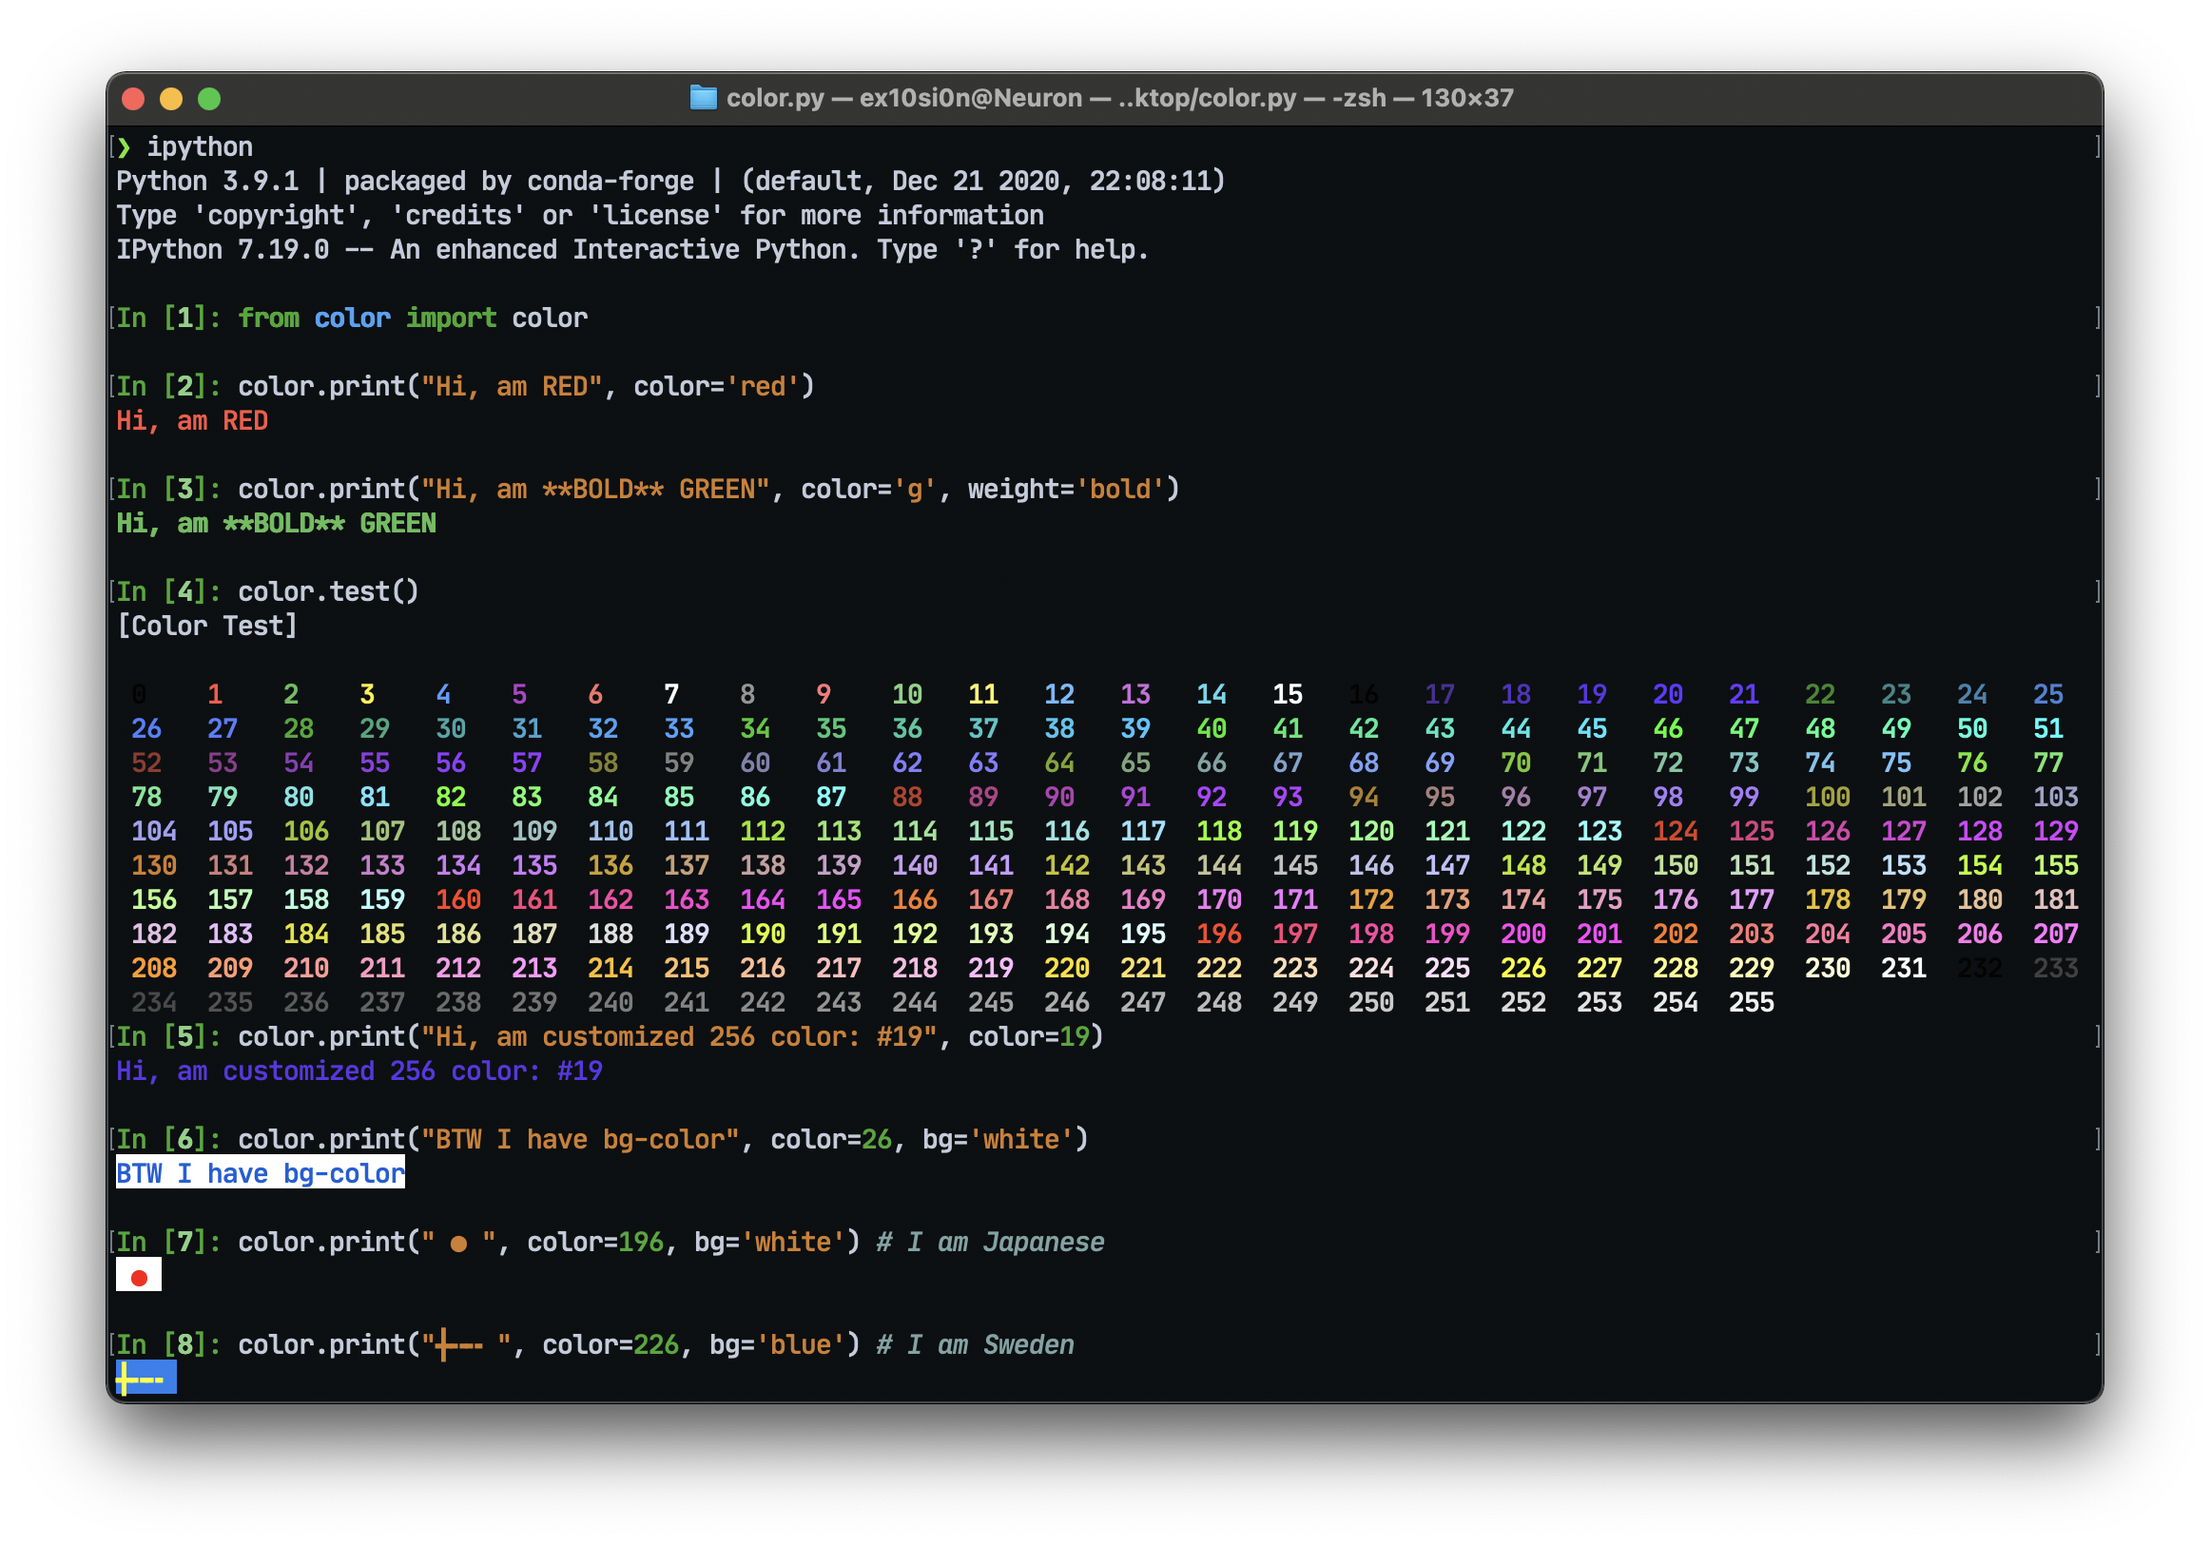
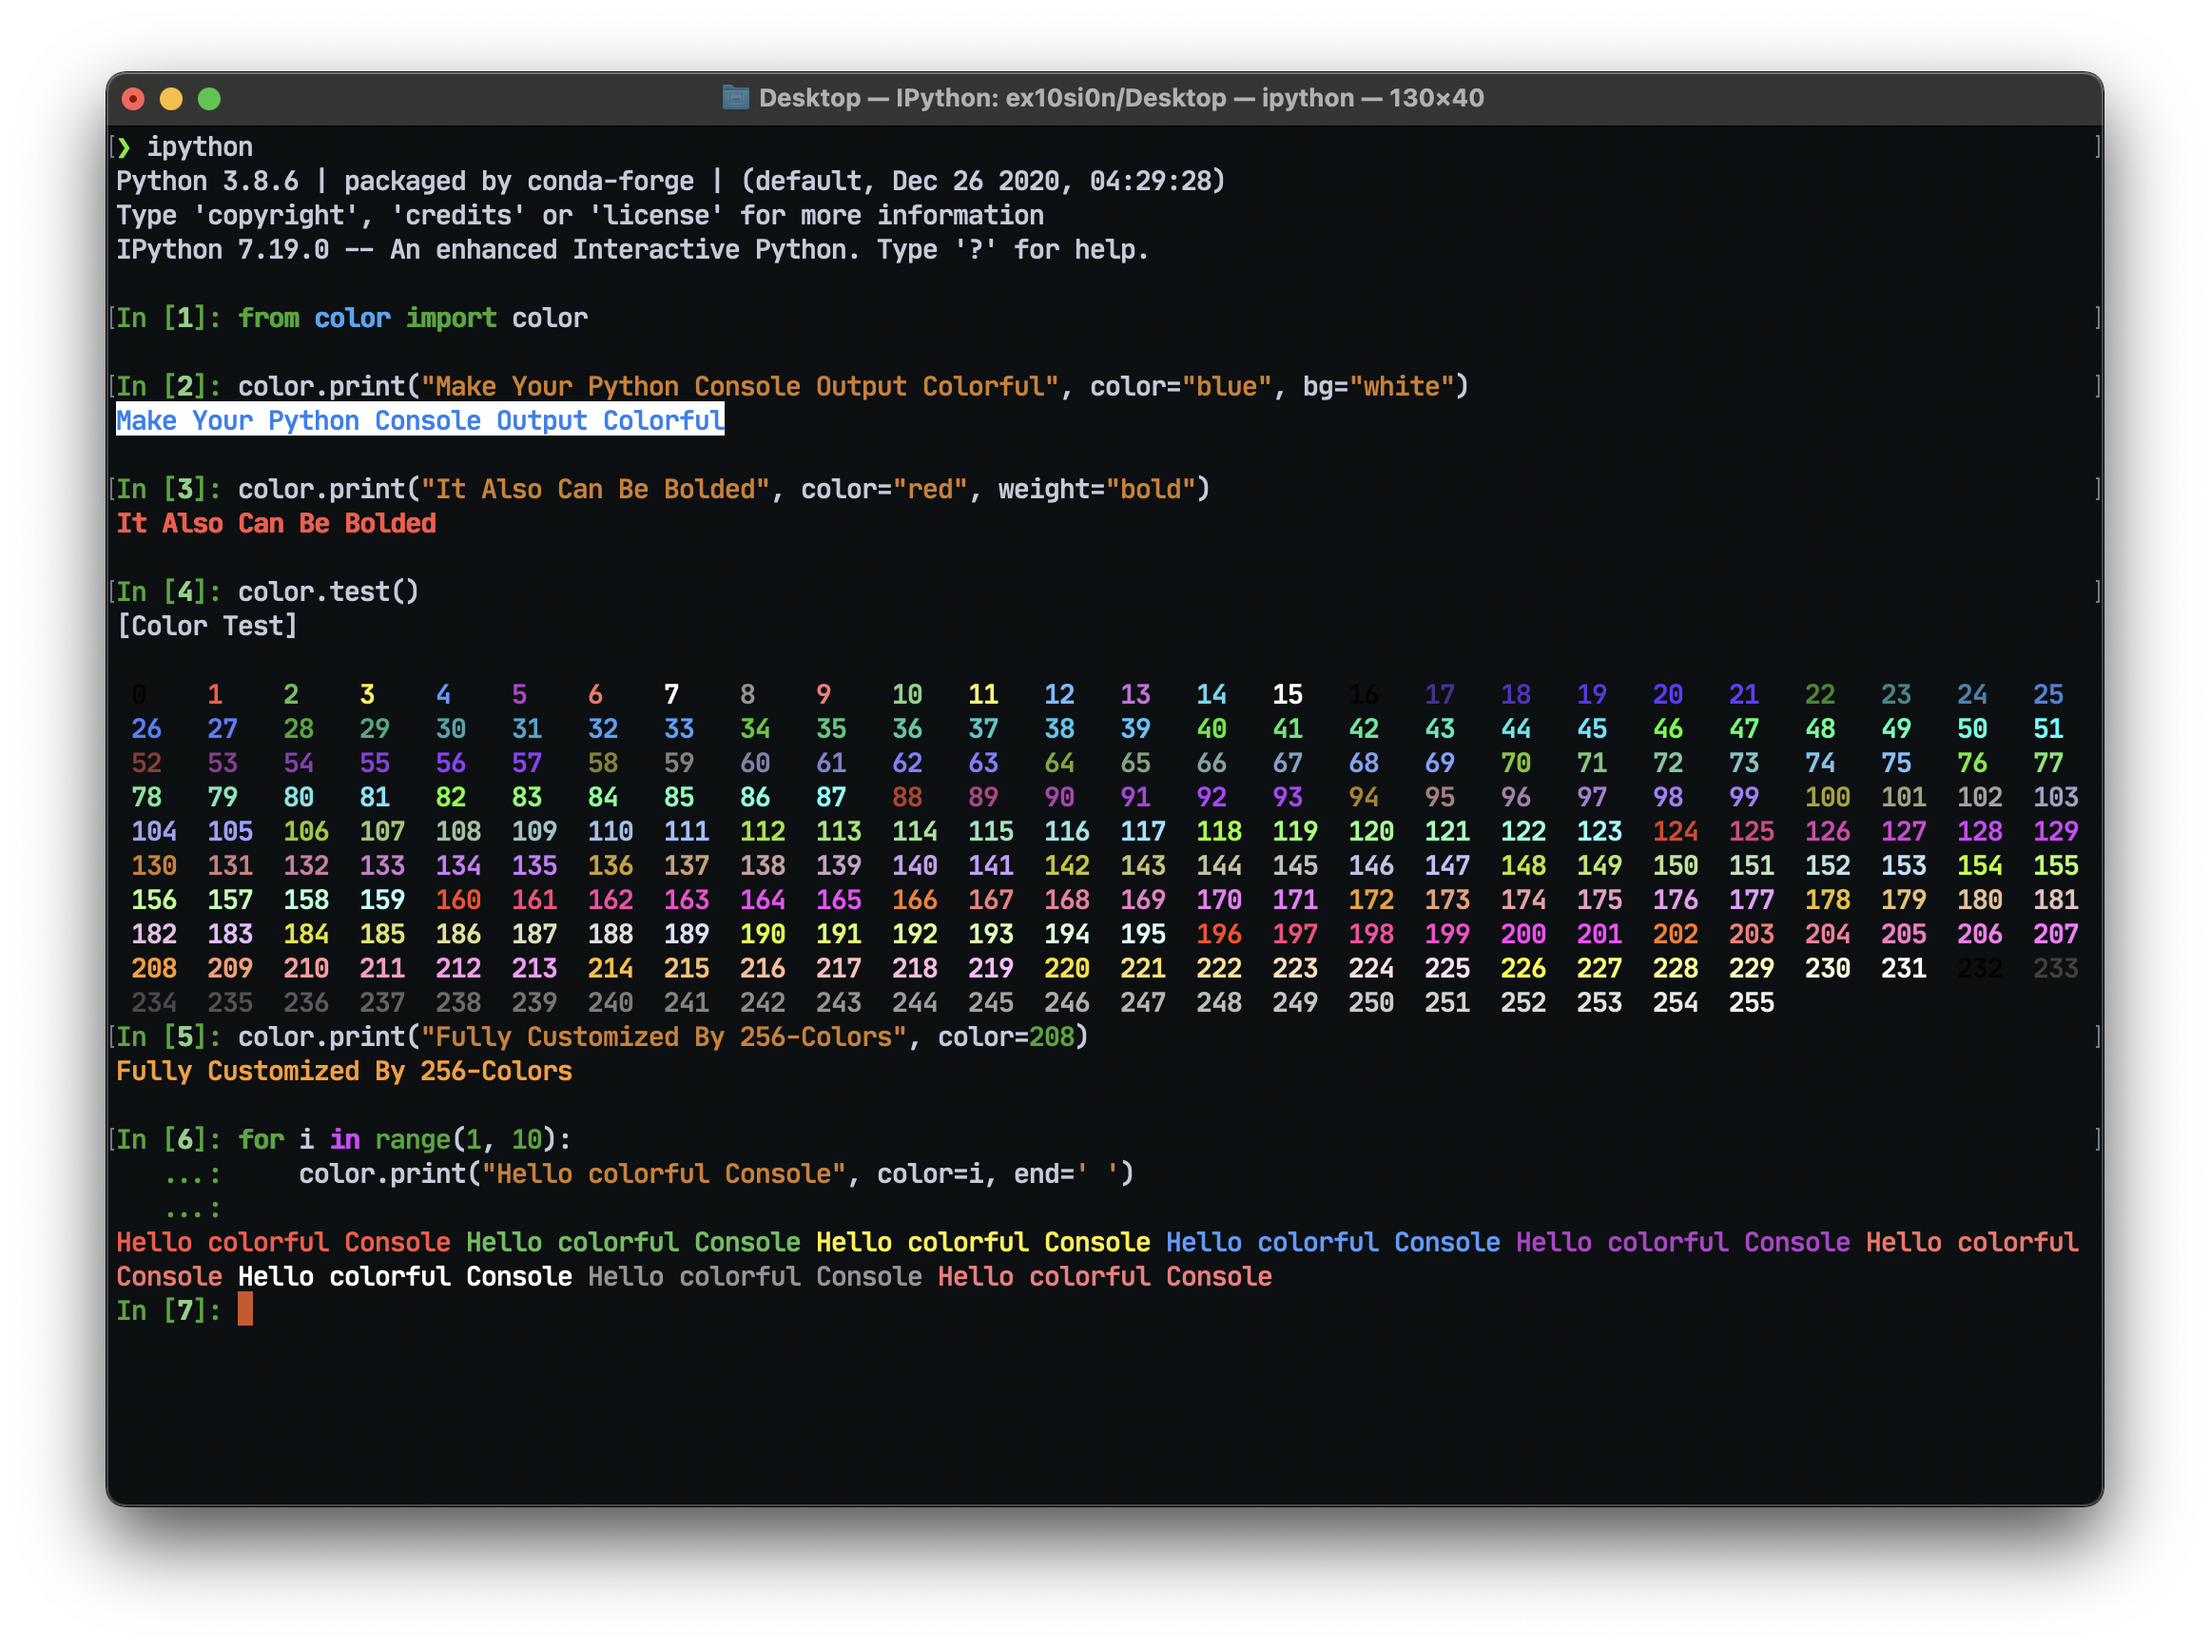
Documents Update

Changed region(s): [[0.031, 0.0308, 0.9604, 0.8313], [0.031, 0.8621, 0.9604, 0.9236], [0.4957, 0.2155, 0.6506, 0.2463]]

diff --git a/README.md b/README.md
@@ -1,5 +1,21 @@
 # color.py
 A Python package enable rich text in console output
 
+## Demo
 ![](screenshot.png)
-太晚了不想写docs 下次一定 马上补
+
+## Usage - Methods
+
+### `color.print()`
+to print colorful output
+params:
+- color = int: color.test().code | str: 'r', 'g', 'b', 'y', 'c', 'm'
+- weight = str: 'normal', 'bold'
+- bg = str: 'r', 'g', 'b', 'y', 'c', 'm', '1', '0'
+- end = str: [any string]
+
+### `color.test()`
+cheatsheet for color code
+params:
+- None
+
